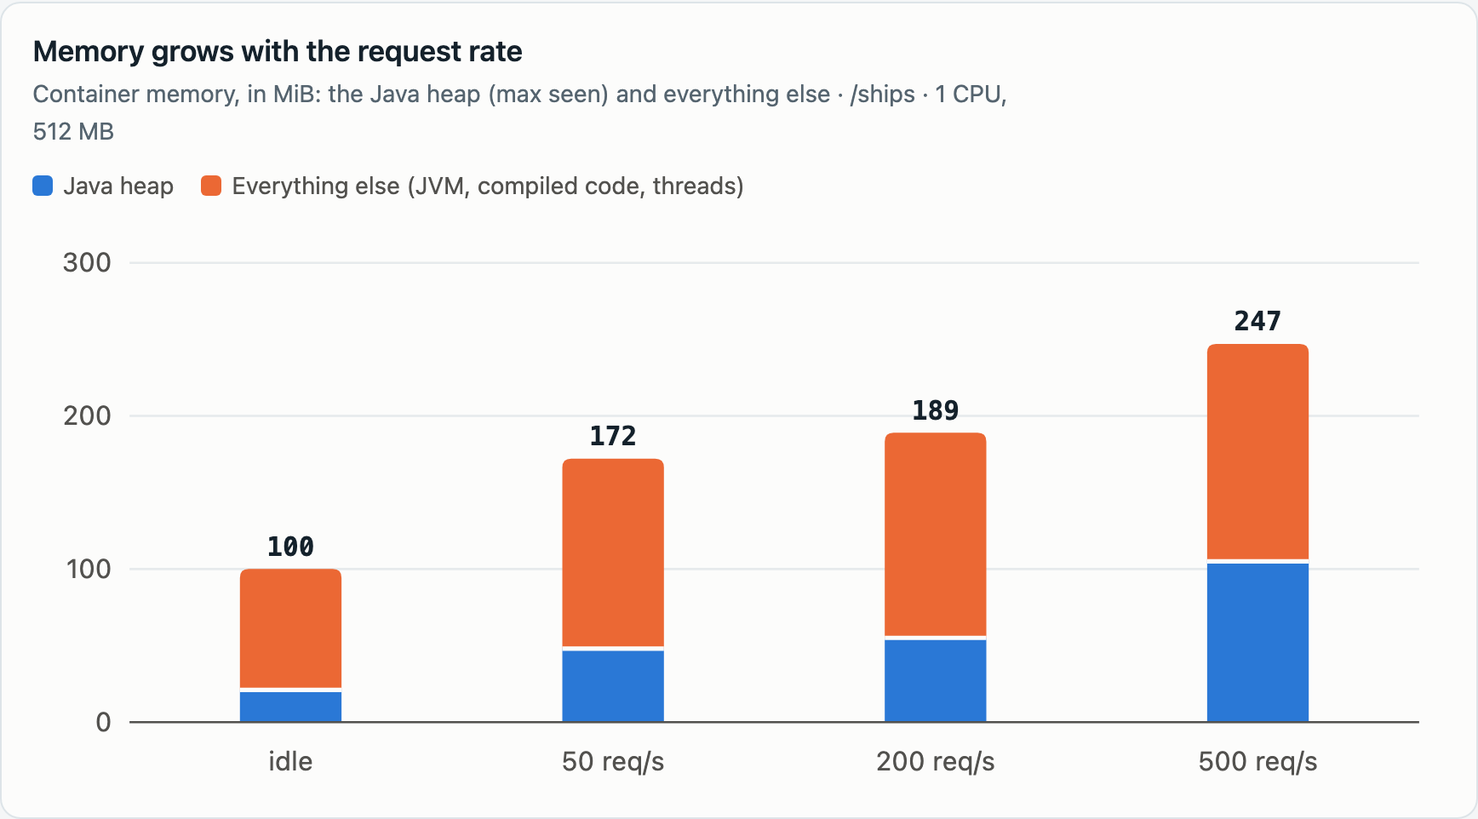
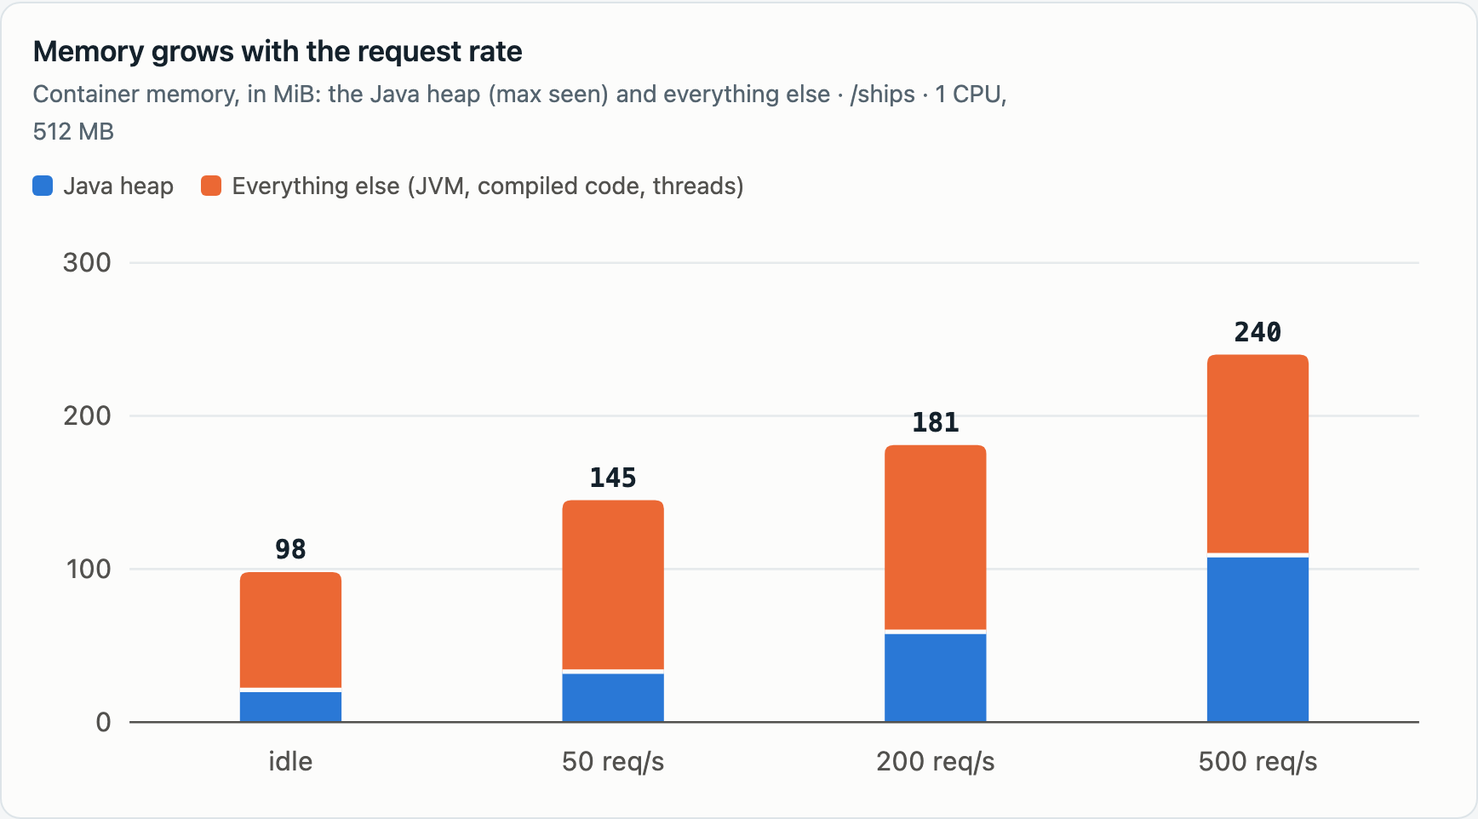
fix: rerun the 1-CPU benchmark with the committed run.sh, and explain why Ikanos doesn't recover
- The 1-CPU runs came from an earlier run.sh without the gentle warm-up.
  Rerun with the committed script, 1 CPU holds 40 req/s of large answers
  and collapses at 45, not 35; a second run measures 45, 50 and 60.
- Finding 5: a thread dump and the heap after GC show requests still in
  progress holding the full heap, so Ikanos completes about one a minute
  (#944); with #920's limit the same run recovers at once.
- run.sh sums GC pauses only (no G1 Concurrent GC) and records the
  collectors; the 2-CPU, 1 GB run used Serial, so its GC seconds are pauses.
- The liveness probe must not call an upstream, the large-answer ceiling
  is 40 req/s with its margin stated, and Next links #919, #920, #944, #897.

diff --git a/modules/ikanos-docs/demo/benchmark/RESULTS.md b/modules/ikanos-docs/demo/benchmark/RESULTS.md
@@ -1,7 +1,8 @@
 # Ikanos CPU/RAM benchmark: first results
 
-A first baseline from [`run.sh`](run.sh), on 2026-11-04, with the jar of `main` plus the JVM metrics of issue
-#737 (Java 21, Temurin, Alpine image).
+A first baseline from [`run.sh`](run.sh), on 2026-11-04 (2 CPUs) and 2026-11-06 (1 CPU), with the jar of
+`main` plus the JVM metrics of issue #737 (Java 21, Temurin, Alpine image). Every table comes from the `run.sh`
+in this directory.
 
 **Where it ran:** Docker Desktop on an Apple Silicon Mac. The Docker VM has 15 CPUs and 7.7 GiB, and k6 and nginx
 run in the same VM as Ikanos, so at high rates they compete with it for the VM's CPUs. Ikanos had fixed CPU and
@@ -24,28 +25,33 @@ starts with the environment and explains its columns. The main columns:
 - **Recovery s**: after the step, how long until `/ships` answers within 1 s again. `120+` means it didn't, and
   `run.sh` restarted Ikanos.
 
-### Small answers, 1 CPU, 512 MB ([run](runs/2026-11-04-1cpu-512m-small.md))
+### Small answers, 1 CPU, 512 MB ([run](runs/2026-11-06-1cpu-512m-small.md))
 
 | Load | Asked | Answered | Ikanos 200/s | Dropped | p50 ms | p99 ms | Errors | CPU avg / max % | Memory max MiB | Heap max MiB | Heap after GC max MiB | Threads | GC s | Recovery s |
 |---|---|---|---|---|---|---|---|---|---|---|---|---|---|---|
-| idle | – | – | – | – | – | – | – | 0.4 / 2.5 | 100 | 21 | 10 | 32 | – | – |
-| /ships | 50 | 50.0 | 50.0 | 0 | 2.8 | 5.4 | 0.0% | 16 / 25 | 172 | 48 | 26 | 110 | 0.4 | 0 |
-| /ships | 200 | 200.0 | 200.0 | 0 | 1.3 | 3.7 | 0.0% | 27 / 33 | 189 | 55 | 29 | 161 | 1.5 | 0 |
-| /ships | 500 | 500.0 | 500.0 | 0 | 0.7 | 1.8 | 0.0% | 29 / 31 | 247 | 105 | 65 | 229 | 1.3 | 0 |
+| idle | – | – | – | – | – | – | – | 0.2 / 0.4 | 98 | 21 | 10 | 32 | – | – |
+| /ships | 50 | 50.0 | 50.0 | 0 | 2.6 | 5.3 | 0.0% | 16 / 25 | 145 | 33 | 19 | 53 | 0.5 | 0 |
+| /ships | 200 | 200.0 | 200.0 | 0 | 1.3 | 3.6 | 0.0% | 27 / 32 | 181 | 59 | 29 | 105 | 1.4 | 0 |
+| /ships | 500 | 500.0 | 500.0 | 0 | 0.7 | 1.7 | 0.0% | 31 / 33 | 240 | 109 | 69 | 195 | 1.2 | 0 |
 
-### Large answers, 1 CPU, 512 MB ([run](runs/2026-11-04-1cpu-512m-large.md))
+### Large answers, 1 CPU, 512 MB ([run](runs/2026-11-06-1cpu-512m-large.md), [run from 45 req/s](runs/2026-11-06-1cpu-512m-large-edge.md))
 
 | Load | Asked | Answered | Ikanos 200/s | Dropped | p50 ms | p99 ms | Errors | CPU avg / max % | Memory max MiB | Heap max MiB | Heap after GC max MiB | Threads | GC s | Recovery s |
 |---|---|---|---|---|---|---|---|---|---|---|---|---|---|---|
-| idle | – | – | – | – | – | – | – | 0.2 / 0.3 | 94 | 21 | 10 | 32 | – | – |
-| /fleet | 10 | 10.0 | 10.0 | 0 | 27.3 | 29.5 | 0.0% | 29 / 34 | 222 | 100 | 55 | 79 | 1.8 | 0 |
-| /fleet | 20 | 20.0 | 20.0 | 0 | 20.3 | 22.0 | 0.0% | 41 / 45 | 226 | 103 | 55 | 78 | 2.6 | 0 |
-| /fleet | 25 | 25.0 | 25.0 | 0 | 19.3 | 21.1 | 0.0% | 48 / 51 | 231 | 112 | 55 | 77 | 3.0 | 0 |
-| /fleet | 30 | 30.0 | 30.0 | 0 | 18.2 | 19.8 | 0.0% | 56 / 66 | 232 | 113 | 54 | 76 | 3.5 | 0 |
-| /fleet | 35 | 2.4 | no answer | 1656 | 17.4 | 681.5 | 48.8% | 94 / 102 | 259 | 119 | 85 | 85 | no answer | 120+ |
-| /fleet | 40 | 0.0 | no answer | 2221 | – | – | 100.0% | 100 / 102 | 271 | no answer | no answer | no answer | no answer | 120+ |
+| idle | – | – | – | – | – | – | – | 0.4 / 1.7 | 99 | 21 | 10 | 32 | – | – |
+| /fleet | 10 | 10.0 | 10.0 | 0 | 25.6 | 30.6 | 0.0% | 27 / 34 | 224 | 104 | 49 | 54 | 1.9 | 0 |
+| /fleet | 20 | 20.0 | 20.0 | 0 | 19.0 | 21.9 | 0.0% | 39 / 44 | 232 | 107 | 49 | 57 | 2.7 | 0 |
+| /fleet | 25 | 25.0 | 25.0 | 0 | 18.2 | 25.7 | 0.0% | 47 / 53 | 234 | 118 | 49 | 64 | 3.4 | 0 |
+| /fleet | 30 | 30.0 | 30.0 | 0 | 17.1 | 18.7 | 0.0% | 51 / 53 | 233 | 67 | 24 | 73 | 3.5 | 0 |
+| /fleet | 35 | 35.0 | 35.0 | 0 | 17.4 | 19.0 | 0.0% | 61 / 64 | 234 | 105 | 24 | 78 | 3.9 | 0 |
+| /fleet | 40 | 40.0 | 40.0 | 0 | 16.6 | 18.6 | 0.0% | 64 / 66 | 236 | 116 | 24 | 80 | 4.3 | 0 |
+| /fleet | 45 | 13.9 | no answer | 1228 | 15.6 | 143.5 | 10.3% | 88 / 104 | 259 | 107 | 44 | 58 | no answer | 120+ |
+| /fleet | 50 | 0.0 | no answer | 2652 | – | – | 100.0% | 100 / 108 | 265 | no answer | no answer | no answer | no answer | 120+ |
+| /fleet | 60 | 0.0 | no answer | 3288 | – | – | 100.0% | 100 / 104 | 263 | no answer | no answer | no answer | no answer | 120+ |
 
-"no answer": the Control Port didn't answer during the collapse either.
+The rows from 45 req/s come from a second run of the same script. After each collapse `run.sh` restarted Ikanos
+and gave it the gentle warm-up again, so 50 and 60 started from a warm JVM too. "no answer": the Control Port
+didn't answer during the collapse either.
 
 ### Large answers, 2 CPUs, 1 GB ([run](runs/2026-11-04-2cpu-1g-large.md))
 
@@ -59,13 +65,13 @@ starts with the environment and explains its columns. The main columns:
 
 The highest step tried, 75 req/s, held: the edge at 2 CPUs is above it.
 
-### Large answers with a bigger heap, 1 CPU, 1 GB, `-XX:MaxRAMPercentage=75` ([run](runs/2026-11-04-1cpu-1g-heap75-large.md))
+### Large answers with a bigger heap, 1 CPU, 1 GB, `-XX:MaxRAMPercentage=75` ([run](runs/2026-11-06-1cpu-1g-heap75-large.md))
 
 | Load | Asked | Answered | Ikanos 200/s | Dropped | p50 ms | p99 ms | Errors | CPU avg / max % | Memory max MiB | Heap max MiB | Heap after GC max MiB | Threads | GC s | Recovery s |
 |---|---|---|---|---|---|---|---|---|---|---|---|---|---|---|
-| idle | – | – | – | – | – | – | – | 0.2 / 0.5 | 101 | 21 | 12 | 32 | – | – |
-| /fleet | 30 | 30.0 | 30.0 | 0 | 17.3 | 20.3 | 0.0% | 53 / 56 | 849 | 549 | 270 | 174 | 1.0 | 0 |
-| /fleet | 40 | 37.6 | 38.9 | 68 | 16.1 | 3762.7 | 0.0% | 71 / 105 | 858 | 566 | 268 | 173 | 3.6 | 0 |
+| idle | – | – | – | – | – | – | – | 0.5 / 1.6 | 101 | 21 | 12 | 32 | – | – |
+| /fleet | 30 | 30.0 | 30.0 | 0 | 16.5 | 33.8 | 0.0% | 58 / 64 | 156 | 47 | 23 | 44 | 8.7 | 0 |
+| /fleet | 40 | 40.0 | 40.0 | 0 | 14.8 | 36.3 | 0.0% | 67 / 82 | 168 | 55 | 28 | 65 | 9.7 | 0 |
 
 ### In charts
 
@@ -73,42 +79,51 @@ The highest step tried, 75 req/s, held: the edge at 2 CPUs is above it.
 
 ![Container memory for small answers, split into the Java heap and everything else](images/memory-small-answers.png)
 
-![Large answers at 1 CPU: requests asked and answered, with the collapse at 35 req/s](images/large-answers-collapse.png)
+![Large answers at 1 CPU: requests asked and answered, with the collapse at 45 req/s](images/large-answers-collapse.png)
 
-![CPU for large answers at 1 CPU, up to the collapse at 35 req/s](images/cpu-large-answers.png)
+![CPU for large answers at 1 CPU, up to the collapse at 45 req/s](images/cpu-large-answers.png)
 
 ## What it shows
 
 1. **Idle, Ikanos takes about 100 MB and no CPU.**
 2. **Small answers are cheap.** 500 req/s used under a third of a core, with a p99 under 2 ms. Memory grows
    with the request rate, to about 250 MB, mostly outside the heap (threads, compiled code).
-3. **A large answer costs about 19 ms of CPU** (56% of a core at 30 req/s). Most of it is avoidable: for each
+3. **A large answer costs about 17 ms of CPU** (51% of a core at 30 req/s). Most of it is avoidable: for each
    field it reads, the output mapping builds a new JSON mapper and JSONPath configuration
    (`Converter.jsonPathFind`), about 4,000 times per `/fleet` answer. Building them once gave the same answer for
-   6.3 ms of CPU instead of 22.5, and a sixth of the garbage collection, in a quick test. That fix belongs in its
-   own issue.
-4. **The collapse is not CPU running out.** At 35 req/s, 35 × 19 ms is 66% of a core, yet Ikanos answered almost
-   nothing. Nothing limits how many requests it works on at once (Jetty takes up to 200, with an unbounded queue
-   behind), and the more it works on at once, the less it gets done: each large request in progress holds about
-   2 MB of parsed JSON, and the heap fills: heap after GC 54 → 85 MiB, 993 log lines with an OutOfMemoryError.
-   The Control Port stopped answering during the collapse, so this run couldn't read the GC time; in separate
-   tests it reached 79–99% of the time. The edge is unstable: in separate tests, 25 req/s held for two minutes, then flipped
-   after one short GC pause. A cold JVM can collapse at a rate it holds once warm: a first 2-CPU run, warmed
-   up directly at its step's rate, collapsed even at 40 req/s, and the same steps after a gentle warm-up all held.
+   6.3 ms of CPU instead of 22.5, and a sixth of the garbage collection, in a quick test (#919).
+4. **The collapse is not CPU running out.** At 1 CPU every request was answered up to 40 req/s; at 45, 45 × 17 ms
+   is 77% of a core, yet Ikanos answered 13.9 req/s, and at 50 none. Nothing limits how many requests it works on
+   at once (Jetty takes up to 200, with an unbounded queue behind), and the more it works on at once, the less it
+   gets done: each large request in progress holds about 2 MB of parsed JSON, and the heap fills: heap after GC
+   24 → 44 MiB before the Control Port stopped answering, and 1,687 log lines with an OutOfMemoryError in that
+   run. In separate tests GC reached 79–99% of the time. The edge is unstable: in separate tests, 25 req/s held
+   for two minutes, then flipped after one short GC pause. And a cold JVM collapses at a rate it holds once warm:
+   the first 1-CPU runs, warmed up directly at the step's rate, collapsed at 35 req/s, where `run.sh`'s gentle
+   warm-up held 40; a 2-CPU run warmed up that way collapsed at 40 too.
 5. **It doesn't recover by itself.** After a collapse, Ikanos still answered nothing 120 s after the load
-   stopped (and 20 minutes in a separate test): it keeps working on requests whose clients have already left.
+   stopped (and 20 minutes in a separate test). The leftover work alone doesn't explain it (at 50 req/s k6 has at
+   most 200 requests in progress, and 200 × 17 ms is 3.4 s of CPU). Two minutes after the load, a thread dump showed 51 requests still being mapped for
+   clients that had left, the heap after GC stayed at about 120 of 128 MiB with no load, and full GCs kept
+   running: the requests in progress hold the memory they need to finish, so Ikanos completed about one a
+   minute (#944). With the limit on requests in progress from #920, the same run recovered at once.
    The Control Port isn't a reliable signal of it: in separate tests `/health/live` sometimes still answered 200
    (after up to 13 s) while the API answered nothing, and sometimes timed out too.
-6. **A bigger heap only moves the edge a little.** With 75% of 1 GB, 40 req/s mostly held (with a 3.8 s p99 and
-   dropped requests), and the container used 858 of its 1,024 MiB. At 512 MB, 75% would leave 128 MiB for
-   everything outside the heap, which already takes about 140 MiB under load: Kubernetes would kill the
-   container. In separate tests with more heap sizes, the collapse moved but always came.
-7. **Two CPUs more than double the capacity.** At 2 CPUs and 1 GB, every step up to 75 req/s held (167% CPU,
-   about 22 ms per answer, heap after GC at most 30 MiB), where 1 CPU collapsed at 35. The second CPU leaves room
-   for garbage collection and for the requests waiting their turn. In a test that shared the VM with other
-   load, 2 CPUs collapsed at 60 req/s, so this edge too depends on conditions.
+6. **A bigger heap isn't needed below the edge.** With 75% of 1 GB, 30 and 40 req/s held as with the default heap,
+   and the heap stayed small (heap after GC at most 28 MiB, container 168 MiB): the JVM only grows it under
+   pressure. In separate tests with more heap sizes, the collapse moved but always came. At 512 MB, 75% would
+   leave 128 MiB for everything outside the heap, which already takes about 130–140 MiB under load: Kubernetes
+   would kill the container once the heap grows.
+7. **Two CPUs nearly double the capacity.** At 2 CPUs and 1 GB, every step up to 75 req/s held (167% CPU, about
+   22 ms per answer, heap after GC at most 30 MiB), where 1 CPU held 40 and collapsed at 45: at least 1.7 times
+   as much, with the same script and warm-up. The second CPU leaves room for garbage collection and for the
+   requests waiting their turn. In a test that shared the VM with other load, 2 CPUs collapsed at 60 req/s, so
+   this edge too depends on conditions.
 8. **The JVM sizes itself small in a container.** By default the heap is 25% of the container's memory, and with
-   fewer than 2 CPUs (and less than 1.75 GB) the JVM uses the Serial garbage collector.
+   fewer than 2 CPUs or less than about 1.8 GB the JVM uses the Serial garbage collector. So the 2-CPU, 1 GB run
+   used Serial too (`Copy` and `MarkSweepCompact`, checked with `-XX:+PrintFlagsFinal`): its GC seconds are
+   pauses, like at 1 CPU. G1 starts at 2 CPUs and 2 GB; `run.sh` then leaves out its `G1 Concurrent GC`
+   collector, which runs next to the application, and `environment` lists the collectors of each run.
 
 ## Sizing recommendations
 
@@ -117,23 +132,33 @@ These hold until Ikanos limits the requests it works on at once; see Next.
 | Capability profile | CPU request / limit | Memory request / limit |
 |---|---|---|
 | Small answers (a few KB), up to a few hundred req/s | 250m / 1 | 256Mi / 512Mi |
-| Large answers (hundreds of KB) | at least 2 CPUs; keep the peak under about 50 req/s per pod | 512Mi / 1Gi |
+| Large answers (hundreds of KB) | at least 2 CPUs; keep the peak under about 40 req/s per pod | 512Mi / 1Gi |
 
 - **What breaks is concurrency, not CPU.** Size for the peak, with a wide margin under the edge measured above:
   a burst or a GC pause past it takes the pod down for good, CPU-based autoscaling can't react in time, and the
-  pod doesn't come back by itself.
-- **Raise the heap only with the memory to match.** `-XX:MaxRAMPercentage=75` fits a 1Gi limit (858 MiB used
-  under load), not 512Mi. At 512Mi, keep the default.
-- **Probe the API, not only `/health`.** A liveness probe that calls a cheap operation of the capability restarts
-  a collapsed pod; `/health` doesn't reliably see the collapse.
+  pod doesn't come back by itself. For large answers at 2 CPUs the measured edge is 60 req/s (in a test that
+  shared the VM) to more than 75 (alone); 40 req/s is a third below the lower figure.
+- **Enforce the ceiling in front of the pods.** Released Ikanos versions can't refuse the excess themselves
+  (that's #920, merged for 1.0.0-beta9 as `maxRequestsInProgress`), so until then a rate limit at the gateway
+  or ingress is what keeps a pod under its ceiling.
+- **Raise the heap only with the memory to match.** `-XX:MaxRAMPercentage=75` fits a 1Gi limit (768 MiB of heap
+  plus about 140 MiB outside it), not 512Mi. At 512Mi, keep the default.
+- **Probe the API, not only `/health`, but never the upstream.** `/health` doesn't reliably see the collapse. A
+  liveness probe that calls a cheap operation of the capability restarts a collapsed pod, but only if that
+  operation doesn't call an upstream API: otherwise the day the upstream goes down, the probe fails on every pod
+  and Kubernetes restarts them all in a loop, though Ikanos is fine. A liveness probe must depend on nothing
+  outside the process; a readiness probe may, since failing it only takes the pod out of the load balancer. This
+  is a workaround until the engine handles overload itself (#920, and #944).
 
 ## Next
 
 - Run the same benchmark on a dedicated, resource-fixed machine for the reference figures.
 - Separate issues, found while measuring:
-  - a limit on requests in progress (with a fast 503 for the excess), so overload degrades instead of collapsing;
-    a prototype capped at 4 kept answering about 49 of 50 req/s at 1 CPU, where today answers none;
-  - building the JSON mapper and JSONPath configuration once in `Converter.jsonPathFind`;
-  - a REST request with `Connection: close` (sent by HTTPie Desktop, for instance) hangs instead of being
-    answered, and any exception that escapes a REST operation leaves its client waiting forever.
+  - #920: a limit on requests in progress (with a fast 503 for the excess), so overload degrades instead of
+    collapsing; merged for 1.0.0-beta9;
+  - #919: building the JSON mapper and JSONPath configuration once in `Converter.jsonPathFind`;
+  - #944: after an overload, Ikanos stays unresponsive for tens of minutes (finding 5);
+  - #897: a REST request with `Connection: close` (sent by HTTPie Desktop, for instance) hangs instead of being
+    answered, and any exception that escapes a REST operation leaves its client waiting forever. Both fixes
+    are in its scope.
 - More capability profiles: MCP tools, aggregates with several calls, scripting steps.

diff --git a/modules/ikanos-docs/demo/benchmark/runs/2026-11-06-1cpu-512m-small.md b/modules/ikanos-docs/demo/benchmark/runs/2026-11-06-1cpu-512m-small.md
@@ -1,7 +1,7 @@
 # Ikanos benchmark: 1 CPU, 512m
 
 ```
-date=2026-11-04T16:11:11Z
+date=2026-11-06T09:25:27Z
 host=Darwin arm64
 docker_vm_cpus=15
 docker_vm_memory_mib=7935
@@ -10,10 +10,11 @@ ikanos_cpus=1
 ikanos_memory=512m (no swap)
 image=ikanos-benchmark:local
 java_options=none
-warmup=60s first step, 20s others; measured=60s
+warmup=60s at 5 req/s after each start, then 20s at the step rate; measured=60s
 oom_killed=false
-restarted_after_collapse=2
-out_of_memory_errors=993
+restarted_after_collapse=0
+out_of_memory_errors=0
+gc_collectors=Copy,MarkSweepCompact
 ```
 
 - **Asked**: the rate k6 sends (constant arrival rate). **Answered**: requests per second that got a 200, as k6 sees them (completed requests × share without error). **Ikanos 200/s**: the same, counted by Ikanos itself (`ikanos_request_total`), including answers to clients that already gave up.
@@ -23,10 +24,7 @@ out_of_memory_errors=993
 
 | Load | Asked | Answered | Ikanos 200/s | Dropped | p50 ms | p99 ms | Errors | CPU avg / max % | Memory max MiB | Heap max MiB | Heap after GC max MiB | Threads | GC s | Recovery s |
 |---|---|---|---|---|---|---|---|---|---|---|---|---|---|---|
-| idle | – | – | – | – | – | – | – | 0.2 / 0.3 | 94 | 21 | 10 | 32 | – | – |
-| /fleet | 10 | 10.0 | 10.0 | 0 | 27.3 | 29.5 | 0.0% | 29 / 34 | 222 | 100 | 55 | 79 | 1.8 | 0 |
-| /fleet | 20 | 20.0 | 20.0 | 0 | 20.3 | 22.0 | 0.0% | 41 / 45 | 226 | 103 | 55 | 78 | 2.6 | 0 |
-| /fleet | 25 | 25.0 | 25.0 | 0 | 19.3 | 21.1 | 0.0% | 48 / 51 | 231 | 112 | 55 | 77 | 3.0 | 0 |
-| /fleet | 30 | 30.0 | 30.0 | 0 | 18.2 | 19.8 | 0.0% | 56 / 66 | 232 | 113 | 54 | 76 | 3.5 | 0 |
-| /fleet | 35 | 2.4 | no answer | 1656 | 17.4 | 681.5 | 48.8% | 94 / 102 | 259 | 119 | 85 | 85 | no answer | 120+ |
-| /fleet | 40 | 0.0 | no answer | 2221 | – | – | 100.0% | 100 / 102 | 271 | no answer | no answer | no answer | no answer | 120+ |
+| idle | – | – | – | – | – | – | – | 0.2 / 0.4 | 98 | 21 | 10 | 32 | – | – |
+| /ships | 50 | 50.0 | 50.0 | 0 | 2.6 | 5.3 | 0.0% | 16 / 25 | 145 | 33 | 19 | 53 | 0.5 | 0 |
+| /ships | 200 | 200.0 | 200.0 | 0 | 1.3 | 3.6 | 0.0% | 27 / 32 | 181 | 59 | 29 | 105 | 1.4 | 0 |
+| /ships | 500 | 500.0 | 500.0 | 0 | 0.7 | 1.7 | 0.0% | 31 / 33 | 240 | 109 | 69 | 195 | 1.2 | 0 |

diff --git a/modules/ikanos-docs/demo/benchmark/runs/2026-11-06-1cpu-512m-large.md b/modules/ikanos-docs/demo/benchmark/runs/2026-11-06-1cpu-512m-large.md
@@ -1,19 +1,20 @@
-# Ikanos benchmark: 1 CPU, 1g
+# Ikanos benchmark: 1 CPU, 512m
 
 ```
-date=2026-11-04T16:50:56Z
+date=2026-11-06T09:31:23Z
 host=Darwin arm64
 docker_vm_cpus=15
 docker_vm_memory_mib=7935
 docker_server=29.6.1 Docker Desktop
 ikanos_cpus=1
-ikanos_memory=1g (no swap)
+ikanos_memory=512m (no swap)
 image=ikanos-benchmark:local
-java_options=-XX:MaxRAMPercentage=75
-warmup=60s first step, 20s others; measured=60s
+java_options=none
+warmup=60s at 5 req/s after each start, then 20s at the step rate; measured=60s
 oom_killed=false
 restarted_after_collapse=0
 out_of_memory_errors=0
+gc_collectors=Copy,MarkSweepCompact
 ```
 
 - **Asked**: the rate k6 sends (constant arrival rate). **Answered**: requests per second that got a 200, as k6 sees them (completed requests × share without error). **Ikanos 200/s**: the same, counted by Ikanos itself (`ikanos_request_total`), including answers to clients that already gave up.
@@ -23,6 +24,10 @@ out_of_memory_errors=0
 
 | Load | Asked | Answered | Ikanos 200/s | Dropped | p50 ms | p99 ms | Errors | CPU avg / max % | Memory max MiB | Heap max MiB | Heap after GC max MiB | Threads | GC s | Recovery s |
 |---|---|---|---|---|---|---|---|---|---|---|---|---|---|---|
-| idle | – | – | – | – | – | – | – | 0.2 / 0.5 | 101 | 21 | 12 | 32 | – | – |
-| /fleet | 30 | 30.0 | 30.0 | 0 | 17.3 | 20.3 | 0.0% | 53 / 56 | 849 | 549 | 270 | 174 | 1.0 | 0 |
-| /fleet | 40 | 37.6 | 38.9 | 68 | 16.1 | 3762.7 | 0.0% | 71 / 105 | 858 | 566 | 268 | 173 | 3.6 | 0 |
+| idle | – | – | – | – | – | – | – | 0.4 / 1.7 | 99 | 21 | 10 | 32 | – | – |
+| /fleet | 10 | 10.0 | 10.0 | 0 | 25.6 | 30.6 | 0.0% | 27 / 34 | 224 | 104 | 49 | 54 | 1.9 | 0 |
+| /fleet | 20 | 20.0 | 20.0 | 0 | 19.0 | 21.9 | 0.0% | 39 / 44 | 232 | 107 | 49 | 57 | 2.7 | 0 |
+| /fleet | 25 | 25.0 | 25.0 | 0 | 18.2 | 25.7 | 0.0% | 47 / 53 | 234 | 118 | 49 | 64 | 3.4 | 0 |
+| /fleet | 30 | 30.0 | 30.0 | 0 | 17.1 | 18.7 | 0.0% | 51 / 53 | 233 | 67 | 24 | 73 | 3.5 | 0 |
+| /fleet | 35 | 35.0 | 35.0 | 0 | 17.4 | 19.0 | 0.0% | 61 / 64 | 234 | 105 | 24 | 78 | 3.9 | 0 |
+| /fleet | 40 | 40.0 | 40.0 | 0 | 16.6 | 18.6 | 0.0% | 64 / 66 | 236 | 116 | 24 | 80 | 4.3 | 0 |

diff --git a/modules/ikanos-docs/demo/benchmark/runs/2026-11-06-1cpu-512m-large-edge.md b/modules/ikanos-docs/demo/benchmark/runs/2026-11-06-1cpu-512m-large-edge.md
@@ -1,7 +1,7 @@
 # Ikanos benchmark: 1 CPU, 512m
 
 ```
-date=2026-11-04T16:05:33Z
+date=2026-11-06T09:46:34Z
 host=Darwin arm64
 docker_vm_cpus=15
 docker_vm_memory_mib=7935
@@ -10,10 +10,11 @@ ikanos_cpus=1
 ikanos_memory=512m (no swap)
 image=ikanos-benchmark:local
 java_options=none
-warmup=60s first step, 20s others; measured=60s
+warmup=60s at 5 req/s after each start, then 20s at the step rate; measured=60s
 oom_killed=false
-restarted_after_collapse=0
-out_of_memory_errors=0
+restarted_after_collapse=3
+out_of_memory_errors=1687
+gc_collectors=Copy,MarkSweepCompact
 ```
 
 - **Asked**: the rate k6 sends (constant arrival rate). **Answered**: requests per second that got a 200, as k6 sees them (completed requests × share without error). **Ikanos 200/s**: the same, counted by Ikanos itself (`ikanos_request_total`), including answers to clients that already gave up.
@@ -23,7 +24,7 @@ out_of_memory_errors=0
 
 | Load | Asked | Answered | Ikanos 200/s | Dropped | p50 ms | p99 ms | Errors | CPU avg / max % | Memory max MiB | Heap max MiB | Heap after GC max MiB | Threads | GC s | Recovery s |
 |---|---|---|---|---|---|---|---|---|---|---|---|---|---|---|
-| idle | – | – | – | – | – | – | – | 0.4 / 2.5 | 100 | 21 | 10 | 32 | – | – |
-| /ships | 50 | 50.0 | 50.0 | 0 | 2.8 | 5.4 | 0.0% | 16 / 25 | 172 | 48 | 26 | 110 | 0.4 | 0 |
-| /ships | 200 | 200.0 | 200.0 | 0 | 1.3 | 3.7 | 0.0% | 27 / 33 | 189 | 55 | 29 | 161 | 1.5 | 0 |
-| /ships | 500 | 500.0 | 500.0 | 0 | 0.7 | 1.8 | 0.0% | 29 / 31 | 247 | 105 | 65 | 229 | 1.3 | 0 |
+| idle | – | – | – | – | – | – | – | 0.2 / 0.4 | 98 | 20 | 10 | 32 | – | – |
+| /fleet | 45 | 13.9 | no answer | 1228 | 15.6 | 143.5 | 10.3% | 88 / 104 | 259 | 107 | 44 | 58 | no answer | 120+ |
+| /fleet | 50 | 0.0 | no answer | 2652 | – | – | 100.0% | 100 / 108 | 265 | no answer | no answer | no answer | no answer | 120+ |
+| /fleet | 60 | 0.0 | no answer | 3288 | – | – | 100.0% | 100 / 104 | 263 | no answer | no answer | no answer | no answer | 120+ |

diff --git a/modules/ikanos-docs/demo/benchmark/runs/2026-11-06-1cpu-1g-heap75-large.md b/modules/ikanos-docs/demo/benchmark/runs/2026-11-06-1cpu-1g-heap75-large.md
@@ -1,0 +1,29 @@
+# Ikanos benchmark: 1 CPU, 1g
+
+```
+date=2026-11-06T09:41:43Z
+host=Darwin arm64
+docker_vm_cpus=15
+docker_vm_memory_mib=7935
+docker_server=29.6.1 Docker Desktop
+ikanos_cpus=1
+ikanos_memory=1g (no swap)
+image=ikanos-benchmark:local
+java_options=-XX:MaxRAMPercentage=75
+warmup=60s at 5 req/s after each start, then 20s at the step rate; measured=60s
+oom_killed=false
+restarted_after_collapse=0
+out_of_memory_errors=0
+gc_collectors=Copy,MarkSweepCompact
+```
+
+- **Asked**: the rate k6 sends (constant arrival rate). **Answered**: requests per second that got a 200, as k6 sees them (completed requests × share without error). **Ikanos 200/s**: the same, counted by Ikanos itself (`ikanos_request_total`), including answers to clients that already gave up.
+- **Dropped**: requests k6 couldn't even send because all its virtual users were waiting (60 s timeout).
+- **p50 / p99**: latency of the answered requests only. **Errors**: share of completed requests that failed.
+- **CPU** in % of one core and **memory** of the container (`docker stats`). **Heap**: the JVM's used heap; **after GC**: what remained after the last garbage collection, which shows a really full heap. **GC s**: seconds spent in garbage collection during the measured run. **Recovery s**: after the step, seconds until `/ships` answered within 1 s again.
+
+| Load | Asked | Answered | Ikanos 200/s | Dropped | p50 ms | p99 ms | Errors | CPU avg / max % | Memory max MiB | Heap max MiB | Heap after GC max MiB | Threads | GC s | Recovery s |
+|---|---|---|---|---|---|---|---|---|---|---|---|---|---|---|
+| idle | – | – | – | – | – | – | – | 0.5 / 1.6 | 101 | 21 | 12 | 32 | – | – |
+| /fleet | 30 | 30.0 | 30.0 | 0 | 16.5 | 33.8 | 0.0% | 58 / 64 | 156 | 47 | 23 | 44 | 8.7 | 0 |
+| /fleet | 40 | 40.0 | 40.0 | 0 | 14.8 | 36.3 | 0.0% | 67 / 82 | 168 | 55 | 28 | 65 | 9.7 | 0 |
